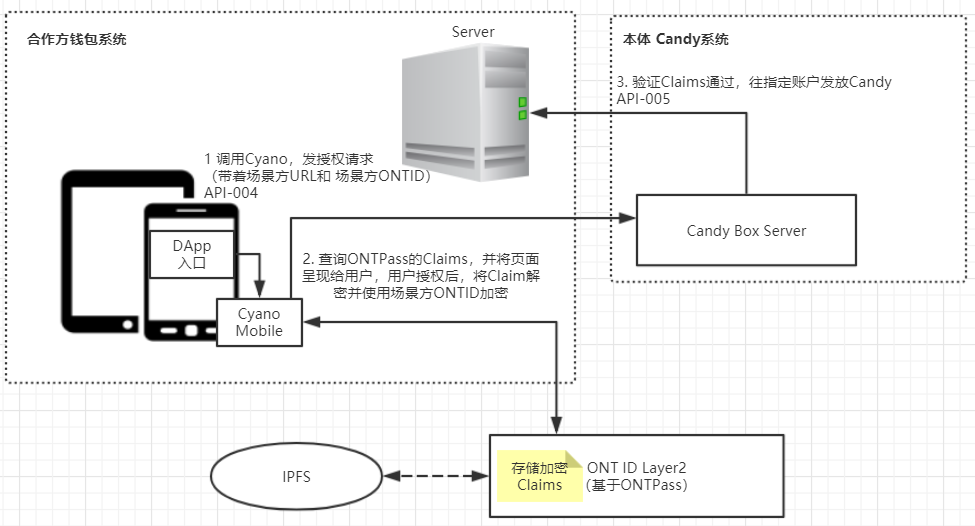
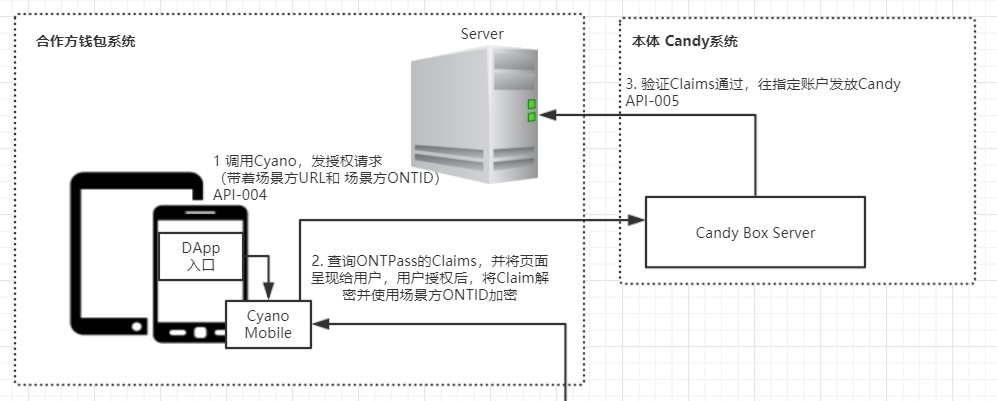
fix

diff --git a/README.md b/README.md
@@ -9,7 +9,7 @@
 需要在ONTPass平台注册， 具体参考[>> ONTPass 认证需求方注册API](http://pro-docs.ont.io/#/docs-cn/ontpass/ontpass-auth?id=step-3-ontpass%E5%B9%B3%E5%8F%B0%E6%B3%A8%E5%86%8C)
 
 全流程设计如下：
-![](http://assets.processon.com/chart_image/5c1efaa9e4b05e0d063bf702.png) 
+![](./img/ui-register.jpg)
 
 
 #### API_1 发起用户认证并开通ONT ID
@@ -65,7 +65,7 @@
 
 ONT ID授权指的是把用户已经获得的认证，授权给场景方，比如在CandyBox场景中，用户需要将授权信息提供给Candy项目方，才可以获得Candy。 流程是这样的：
 
-![](http://assets.processon.com/chart_image/5c262c6ce4b07361e6ab2009.png) 
+![](./img/ui-auth.jpg)
 
 
 #### API接口_4 授权
